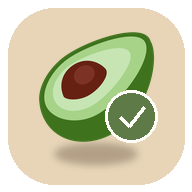
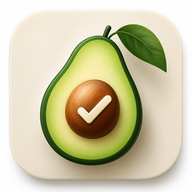
Icono definitivo: pack generado por el usuario
Sustituye el icono provisional (montaje del emoji Twemoji) por el pack
de iconos que Chester generó con IA de imágenes: aguacate con check,
acabado 3D/glossy, en todos los tamaños necesarios (192, 512, 512
maskable, apple-touch 180, favicon.ico + png).

diff --git a/index.html b/index.html
@@ -6,8 +6,9 @@
 <title>Nutrició · Chester</title>
 <meta name="theme-color" content="#faf3e8">
 <link rel="manifest" href="manifest.json">
-<link rel="icon" href="icons/favicon.png">
-<link rel="apple-touch-icon" href="icons/icon-192.png">
+<link rel="icon" href="favicon.ico" sizes="any">
+<link rel="icon" type="image/png" href="icons/favicon.png">
+<link rel="apple-touch-icon" href="icons/icon-180.png">
 <style>
   @import url('https://fonts.googleapis.com/css2?family=Fraunces:opsz,wght@9..144,500;9..144,600&family=Work+Sans:wght@400;500;600;700&display=swap');
   :root {
